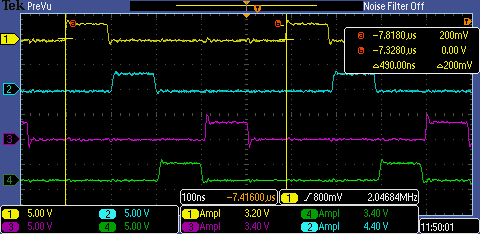
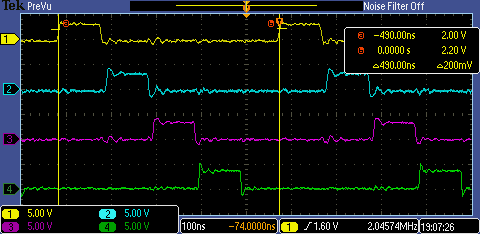
[lpc51u68][ezh][keyscan]v1.31 add NOP define

diff --git a/EZH_key_scan/source/ezh_key_scan.c b/EZH_key_scan/source/ezh_key_scan.c
@@ -107,6 +107,24 @@ kdown /* detect key down */
     E_LOAD_IMM(R1, 1)
     /* Scan 1st row */
     E_BSET_IMM(GPO, GPO, KEY_ROW_1)
+#if NEED_DELAY
+		E_NOP
+		E_NOP
+		E_NOP
+		E_NOP
+		E_NOP
+		E_NOP
+		E_NOP
+		E_NOP
+		E_NOP
+		E_NOP
+		E_NOP
+		E_NOP
+		E_NOP
+		E_NOP
+		E_NOP
+		E_NOP	
+#endif
     E_BTST_IMMS(GPI, GPI, KEY_COLUMN_1)
     E_COND_OR(NZ, R0, R0, R1) /* bit 0 */
     E_BTST_IMMS(GPI, GPI, KEY_COLUMN_2)
@@ -118,6 +136,26 @@ kdown /* detect key down */
     E_BCLR_IMM(GPO, GPO, KEY_ROW_1)
 		/* Scan 2nd row */		
     E_BSET_IMM(GPO, GPO, KEY_ROW_2)
+		
+#if NEED_DELAY
+		E_NOP
+		E_NOP
+		E_NOP
+		E_NOP
+		E_NOP
+		E_NOP
+		E_NOP
+		E_NOP
+		E_NOP
+		E_NOP
+		E_NOP
+		E_NOP
+		E_NOP
+		E_NOP
+		E_NOP
+		E_NOP	
+#endif	
+
     E_BTST_IMMS(GPI, GPI, KEY_COLUMN_1)
     E_COND_LSL_OR(NZ, R0, R0, R1, 4) /* bit 4 */
     E_BTST_IMMS(GPI, GPI, KEY_COLUMN_2)
@@ -129,6 +167,24 @@ kdown /* detect key down */
     E_BCLR_IMM(GPO, GPO, KEY_ROW_2)
 		/* Scan 3rd row */		
     E_BSET_IMM(GPO, GPO, KEY_ROW_3)
+#if NEED_DELAY
+		E_NOP
+		E_NOP
+		E_NOP
+		E_NOP
+		E_NOP
+		E_NOP
+		E_NOP
+		E_NOP
+		E_NOP
+		E_NOP
+		E_NOP
+		E_NOP
+		E_NOP
+		E_NOP
+		E_NOP
+		E_NOP	
+#endif
     E_BTST_IMMS(GPI, GPI, KEY_COLUMN_1)
     E_COND_LSL_OR(NZ, R0, R0, R1, 8) /* bit 8 */
     E_BTST_IMMS(GPI, GPI, KEY_COLUMN_2)
@@ -139,7 +195,25 @@ kdown /* detect key down */
     E_COND_LSL_OR(NZ, R0, R0, R1, 11) /* bit 11 */
     E_BCLR_IMM(GPO, GPO, KEY_ROW_3)	
 		/* Scan 4th row */		
-    E_BSET_IMM(GPO, GPO, KEY_ROW_4)		
+    E_BSET_IMM(GPO, GPO, KEY_ROW_4)	
+#if NEED_DELAY
+		E_NOP
+		E_NOP
+		E_NOP
+		E_NOP
+		E_NOP
+		E_NOP
+		E_NOP
+		E_NOP
+		E_NOP
+		E_NOP
+		E_NOP
+		E_NOP
+		E_NOP
+		E_NOP
+		E_NOP
+		E_NOP	
+#endif	
     E_BTST_IMMS(GPI, GPI, KEY_COLUMN_1)
     E_COND_LSL_OR(NZ, R0, R0, R1, 12) /* bit 12 */
     E_BTST_IMMS(GPI, GPI, KEY_COLUMN_2)
